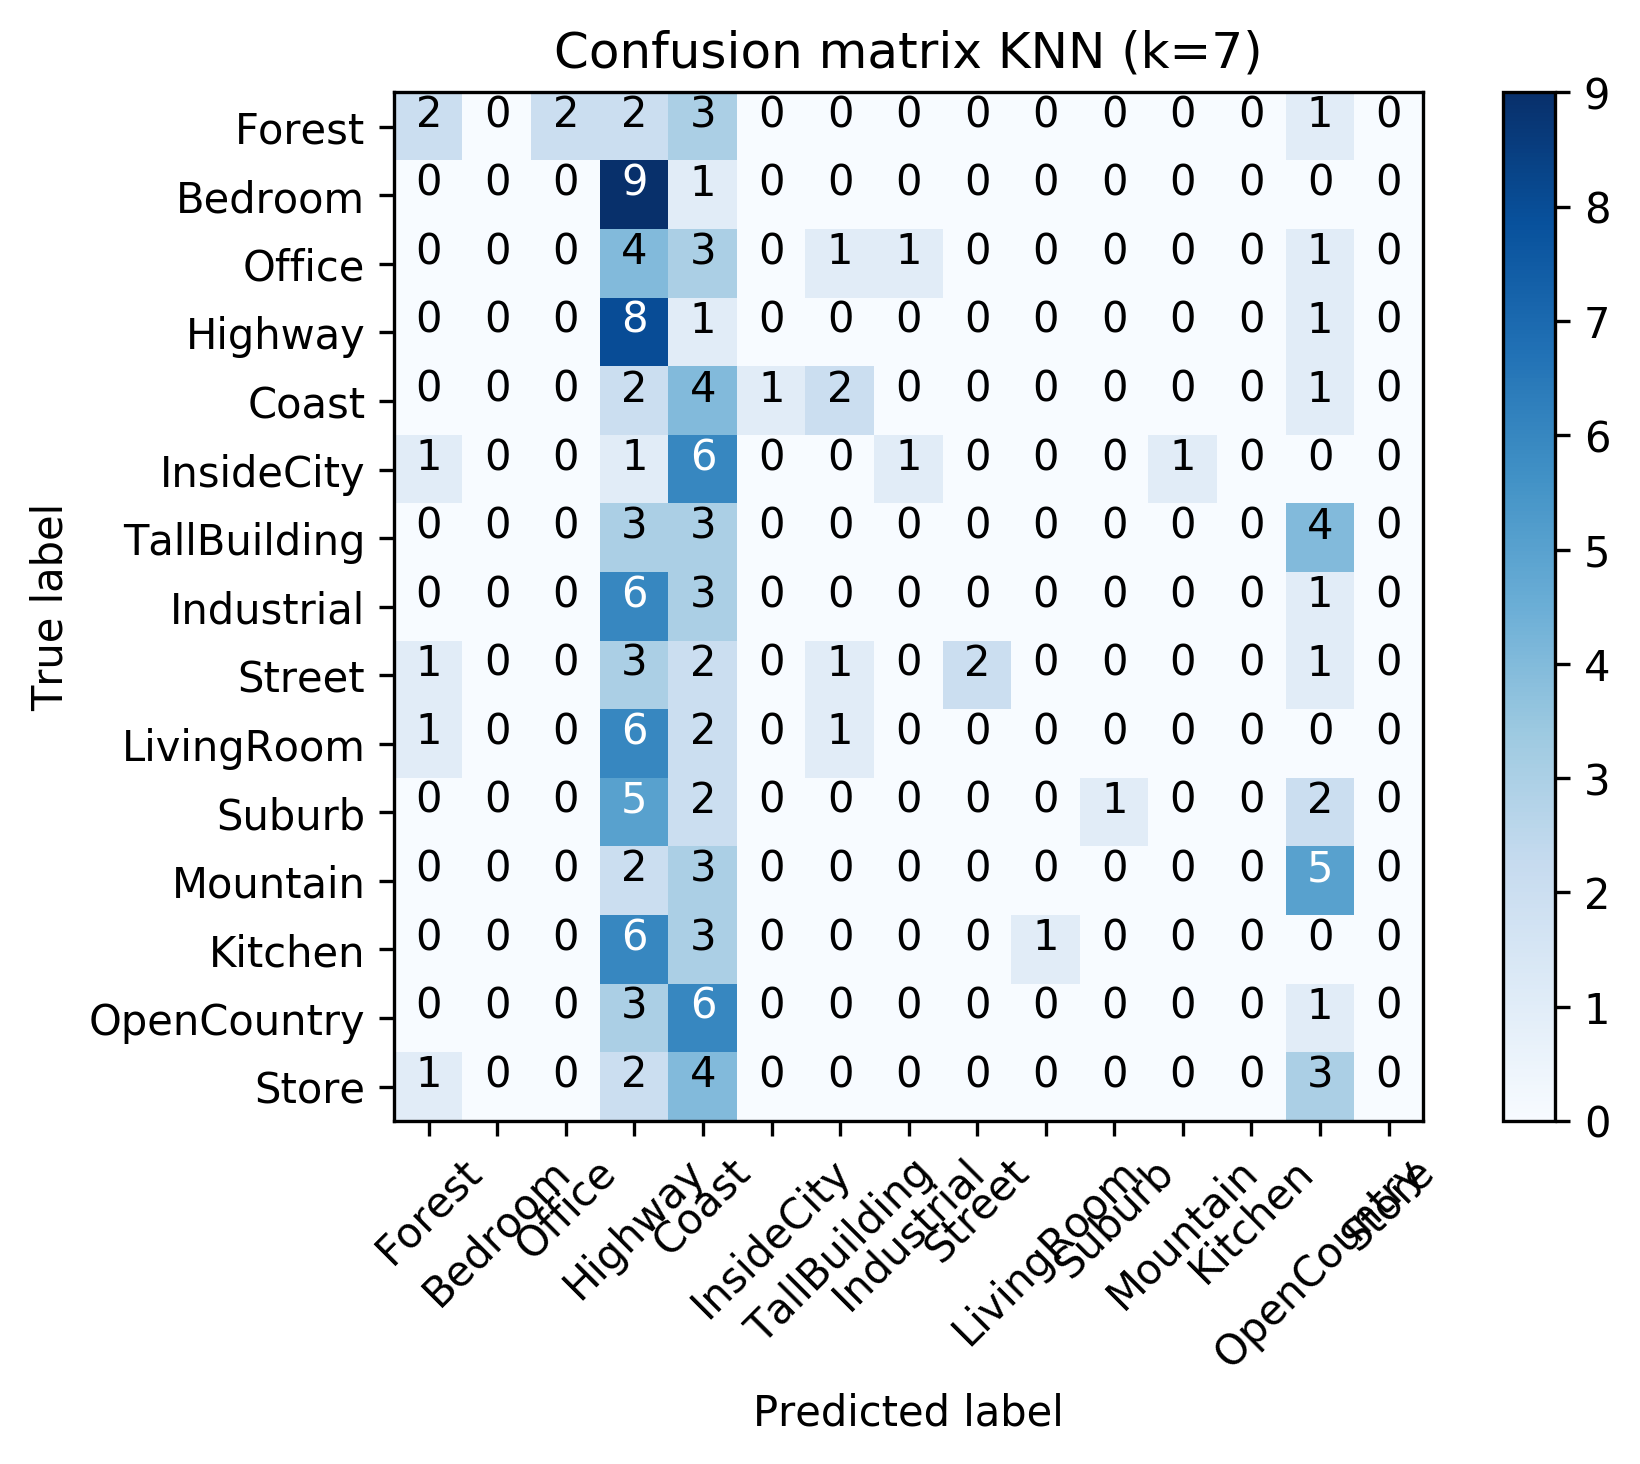
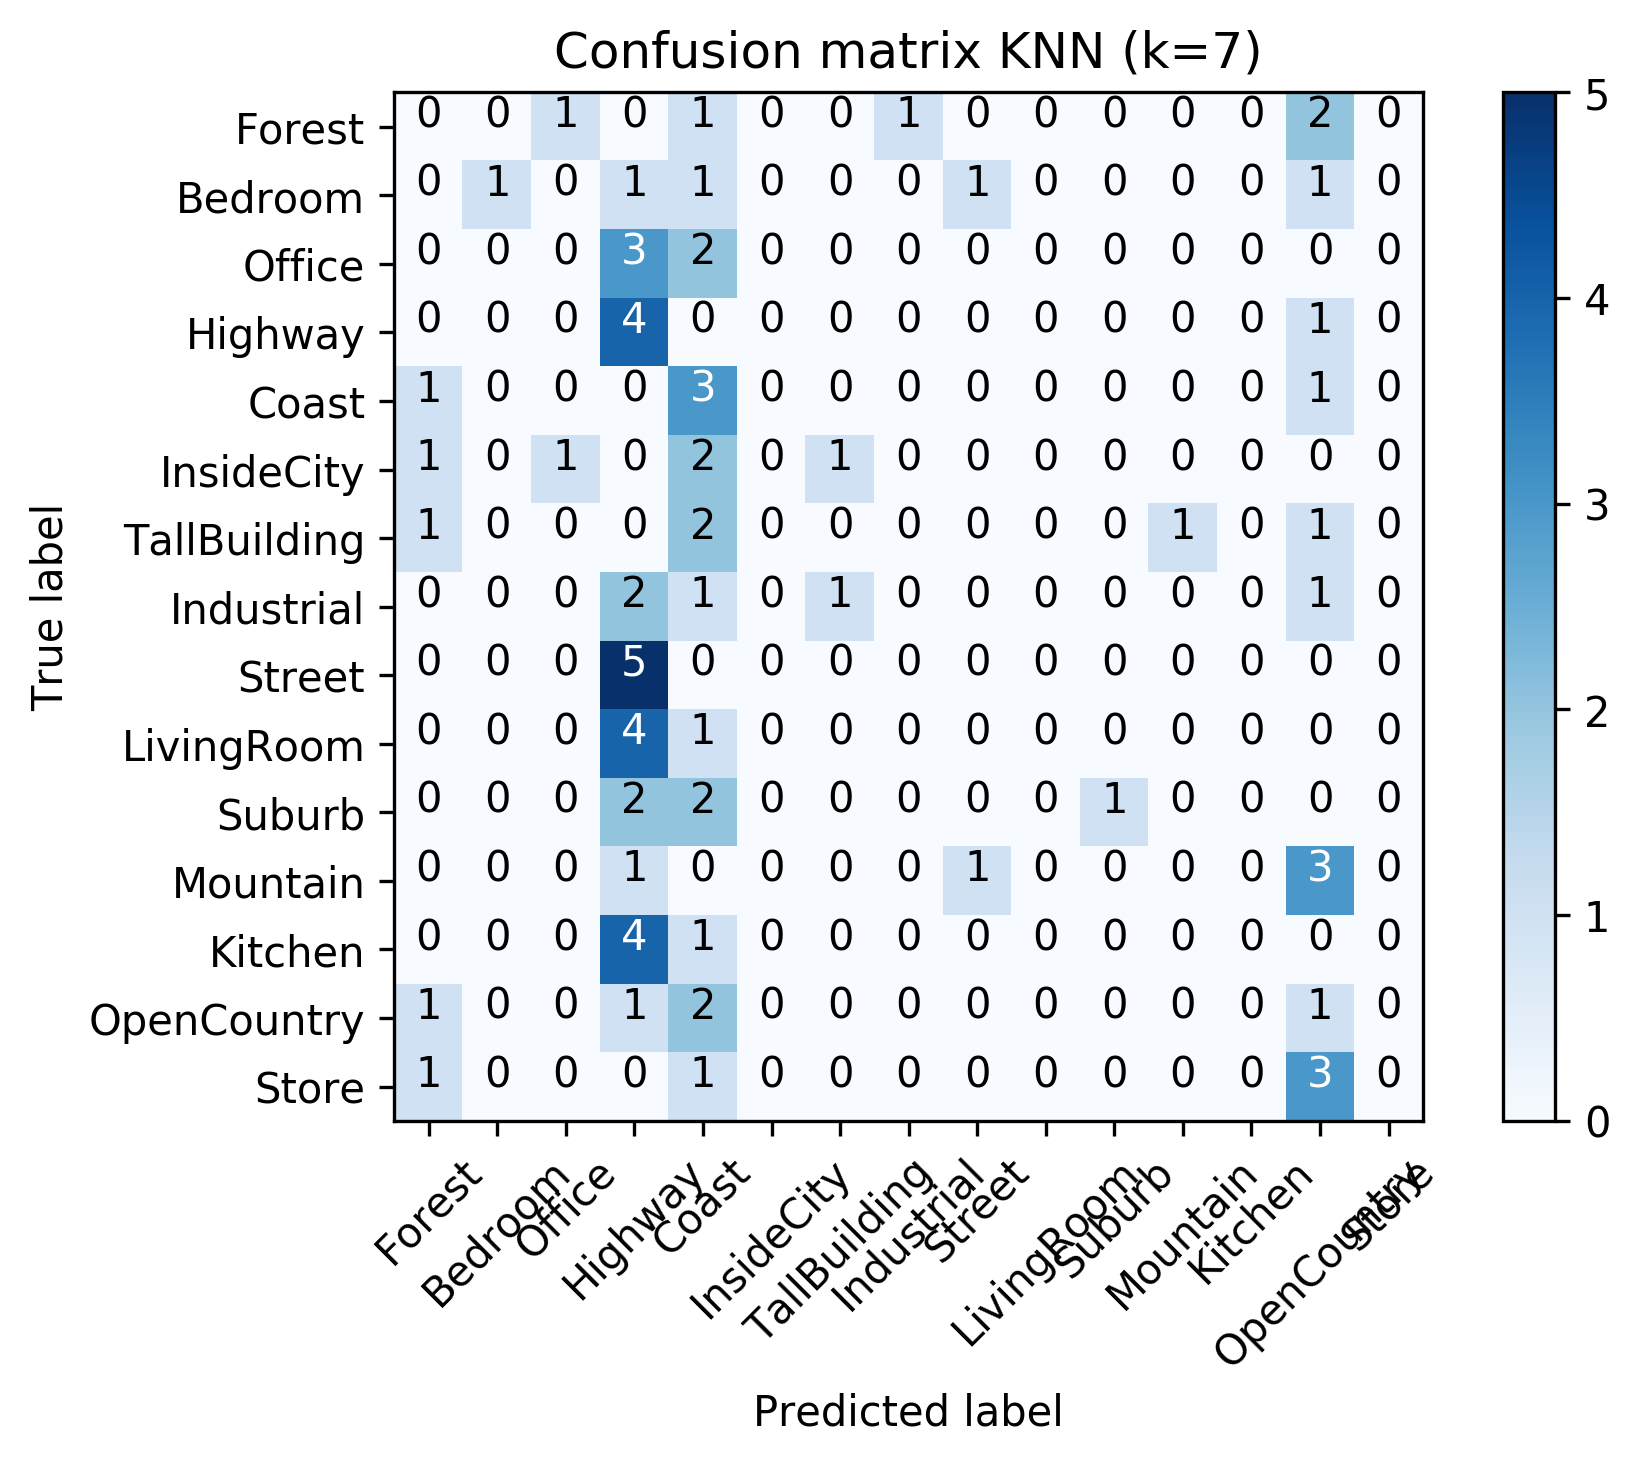
eval task 1- 3

diff --git a/categorize-images/task_2.py b/categorize-images/task_2.py
@@ -41,7 +41,8 @@ def dataRead():
     print("Number of training images: %d " % len(train_img_list))
 
     # Path to test data
-    test_path = "./hw4_data/test/"
+    # test_path = "./hw4_data/test/"
+    test_path = "./set3/"
     test_img_list = []
 
     # Read all the file names in folders, one folder by one folder
@@ -174,7 +175,7 @@ for idx, label in enumerate(img_dirs):
 
 # Create Y results
 train_Y = np.repeat(np.arange(NUMOFCATEGORY), 100)
-test_Y = np.repeat(np.arange(NUMOFCATEGORY), 10)
+test_Y = np.repeat(np.arange(NUMOFCATEGORY), 5)
 
 nn = NearestNeighbor()
 nn.train(train_hist, train_Y)

diff --git a/categorize-images/task_1.py b/categorize-images/task_1.py
@@ -81,7 +81,8 @@ for d_idx in range(len(img_names)):
 
 print("Number of training images: %d " % len(train_img_list))
 
-test_path = "./hw4_data/test/"
+# test_path = "./hw4_data/test/"
+test_path = "./set3/"
 test_img_list = []
 img_names = [os.listdir(test_path + d) for d in img_dirs if not d.startswith('.')]
 
@@ -119,7 +120,7 @@ for i, c in enumerate(img_dirs):
     label_dict[i] = c
 
 Ytr = np.repeat(np.arange(15), 100)
-Yte = np.repeat(np.arange(15), 10)
+Yte = np.repeat(np.arange(15), 5)
 
 # --- NN --- 
 nn = NearestNeighbor()

diff --git a/categorize-images/task_3.py b/categorize-images/task_3.py
@@ -41,7 +41,7 @@ def dataRead():
     print("Number of training images: %d " % len(train_img_list))
 
     # Path to test data
-    test_path = "./hw4_data/test/"
+    test_path = "./set3/"
     test_img_list = []
 
     # Read all the file names in folders, one folder by one folder
@@ -144,7 +144,7 @@ for idx, label in enumerate(img_dirs):
 
 # Create Y results
 train_Y = np.repeat(np.arange(15), 100)
-test_Y = np.repeat(np.arange(15), 10)
+test_Y = np.repeat(np.arange(15), 5)
 
 #---------------------------------------------#
 
